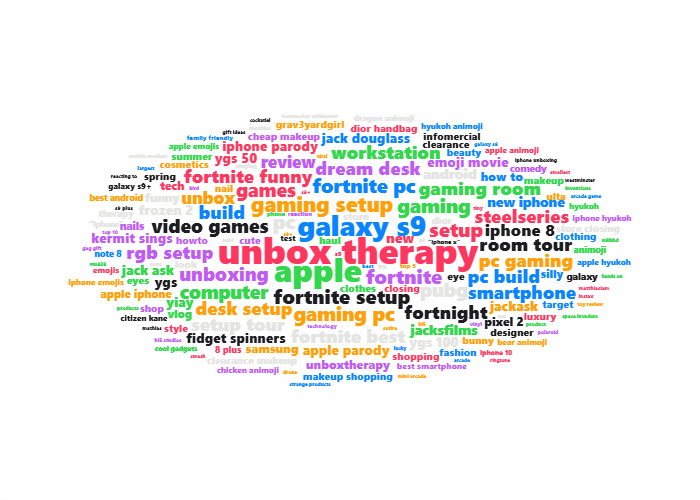
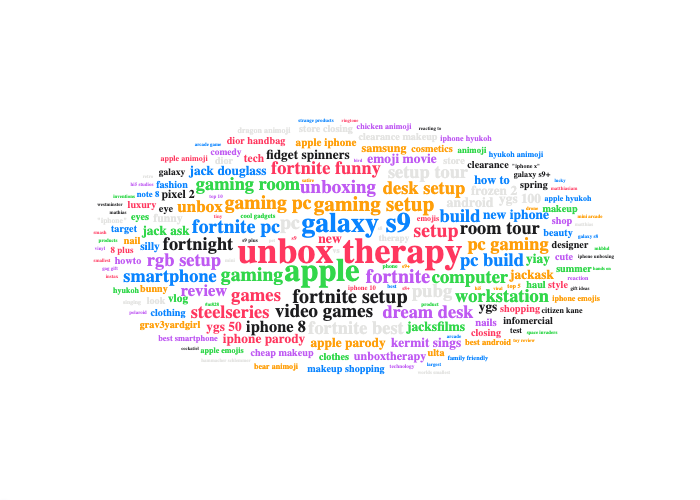
wordcloud2 shown as png on html version branch

Changed region(s): [[0.09, 0.21, 0.9, 0.78]]

diff --git a/README.md b/README.md
@@ -78,18 +78,6 @@ Requires **R**, **RStudio**, and **Quarto**. Main R packages (grouped):
 -   **PDF Report:** `_book/Data_Driven_Brand_Product_Strategy_Gao_Huber.pdf`
 
 ------------------------------------------------------------------------
-## Outliers
-
-In case the second **wordcloud (iPhone) doesn't render correctly** on your browser, please kindly refer to our PDF file.
-
-We discovered that this graph in HTML file couldn't render in some environments.\
-It is caused by CORS (Cross-Origin Resource Sharing) policy violations (shown in browser console)\
-since it opens the HTML file directly from the local file system.
-
-*This is a technical challenge that we need to investigate further.*
-*Thank you for your understanding.*
-
-------------------------------------------------------------------------
 
 ## Outputs
 ## Authors & Contact
